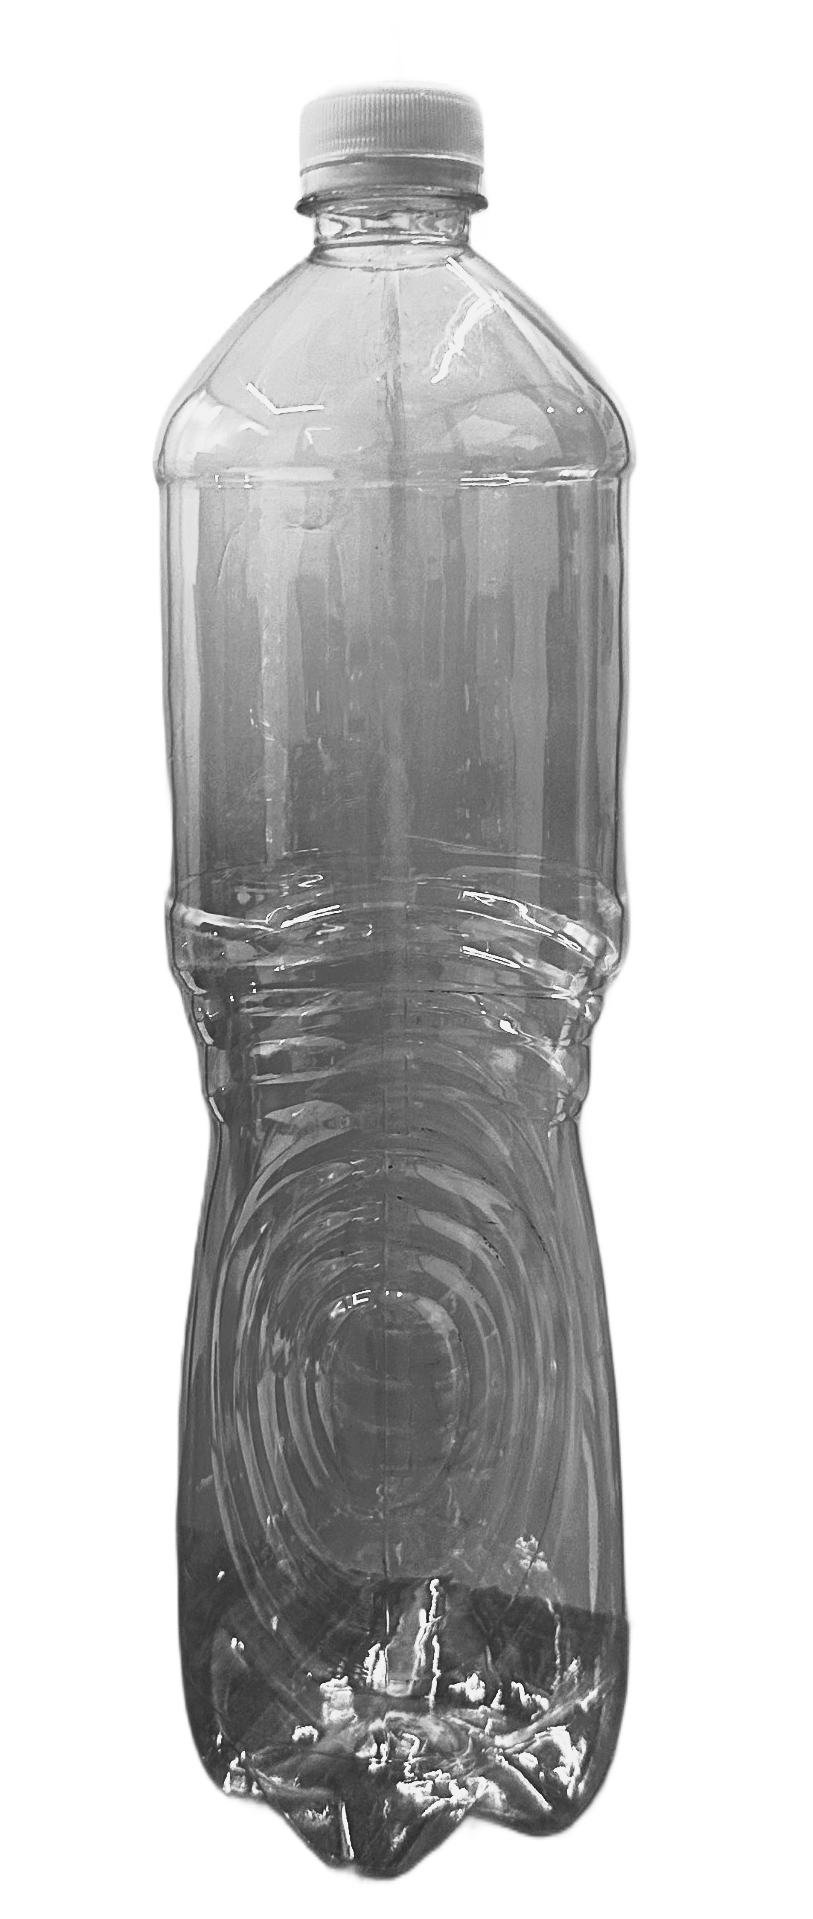
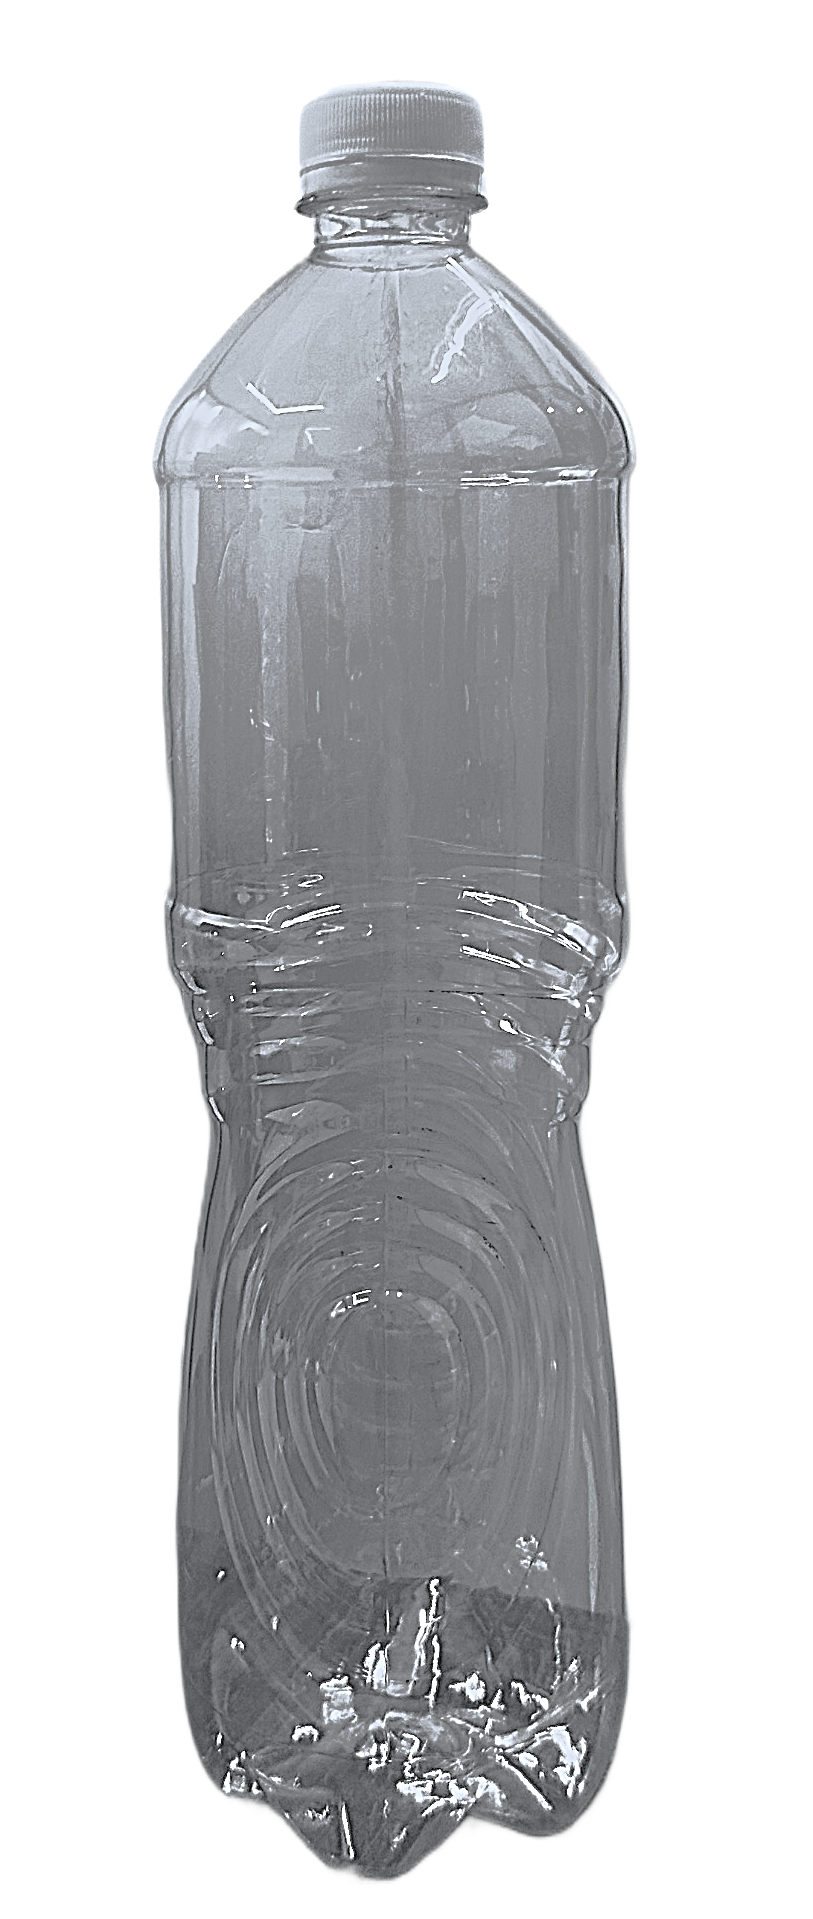
fixing

diff --git a/src/routes/offers.tsx b/src/routes/offers.tsx
@@ -1,10 +1,9 @@
 import { createFileRoute, Link } from "@tanstack/react-router";
-import { useState } from "react";
 import { SiteLayout } from "@/components/SiteLayout";
 import { PageHero } from "@/components/PageHero";
 import { Reveal, Stagger, StaggerItem } from "@/components/Reveal";
 import { Newsletter } from "@/components/sections/Newsletter";
-import { Package, Gift, BadgePercent, Sparkles, Copy, Check } from "lucide-react";
+import { Droplets, Building2, PackageCheck, ArrowUpRight } from "lucide-react";
 
 export const Route = createFileRoute("/offers")({
   head: () => ({
@@ -18,34 +17,59 @@ export const Route = createFileRoute("/offers")({
   component: Offers,
 });
 
+const WHATSAPP_LINK =
+  "https://api.whatsapp.com/send/?phone=[phone redacted]&text&type=phone_number&app_absent=0";
+
+// using a variable-as-component avoids the raw anchor tag getting stripped by some editors/pasters
+const AnchorTag = "a";
+
 const offers = [
   {
-    i: Package,
-    badge: "POPULAR",
-    t: "Family Pack -15%",
-    d: "5× 19L bottles delivered weekly. Perfect for households.",
-    code: "FAMILY15",
+    i: Droplets,
+    img: "/images/offers/offer-1.jpg",
+    label: "Offer 1",
+    t: (
+      <>
+        Buy 4 PET Bottles,
+        <br />
+        Get 1 FREE!
+      </>
+    ),
+    tag: "6-Pack & 12-Pack",
+    d: "Stock up on your favorite Elara Wave water bottles in bulk and get one bottle free. Available on both 6-bottle and 12-bottle packs.",
+    cta: "Order Now",
   },
   {
-    i: Gift,
-    badge: "EXCLUSIVE",
-    t: "Free Dispenser",
-    d: "Sign a 6-month office plan and get a premium dispenser on us.",
-    code: "OFFICE6M",
+    i: Building2,
+    img: "/images/offers/offer-2.jpg",
+    label: "Offer 2",
+    t: (
+      <>
+        Buy 3 (19L) Bottles,
+        <br />
+        Get a Dispenser Free!
+      </>
+    ),
+    tag: "Home & Office",
+    d: "Purchase 3 large 19-liter Elara Wave bottles and receive a premium tabletop dispenser for free. Perfect for your home, office, or workspace.",
+    cta: "Claim Offer",
+    featured: true,
   },
   {
-    i: BadgePercent,
-    badge: "LIMITED OFFER",
-    t: "First-Order 10%",
-    d: "Welcome to ELARAWAVE — 10% off your very first order.",
-    code: "WELCOME10",
-  },
-  {
-    i: Sparkles,
-    badge: "SPECIAL DEAL",
-    t: "Event Bundle",
-    d: "500× custom-labeled bottles for weddings & events. Talk to us.",
-    code: "EVENT500",
+    i: PackageCheck,
+    img: "/images/offers/offer-3.jpg",
+    label: "Offer 3",
+    t: (
+      <>
+        Order 100 Custom Bottles,
+        <br />
+        Get 10 FREE!
+      </>
+    ),
+    tag: "10 Bottles Free",
+    d: "Order 100 personalized Elara Wave bottles with your own branding and get 10 extra bottles free. Ideal for events, weddings, and businesses.",
+    cta: "Customize Now",
+    href: "/custom-branding",
   },
 ];
 
@@ -59,13 +83,12 @@ function Offers() {
       />
 
       <div className="relative">
-        {/* soft light-blue decorative backdrop */}
         <div className="pointer-events-none absolute -top-10 left-1/2 -translate-x-1/2 h-72 w-[42rem] rounded-full bg-gradient-to-br from-blue-100/40 via-emerald-100/30 to-transparent blur-3xl" />
 
-        <Stagger className="relative mx-auto max-w-7xl px-4 sm:px-6 lg:px-8 grid gap-6 sm:gap-7 sm:grid-cols-2 pb-4">
+        <Stagger className="relative mx-auto max-w-7xl px-4 sm:px-6 lg:px-8 grid gap-6 sm:gap-7 grid-cols-1 sm:grid-cols-2 lg:grid-cols-3 pb-4 items-stretch">
           {offers.map((offer) => (
-            <StaggerItem key={offer.code}>
-              <Reveal>
+            <StaggerItem key={offer.label}>
+              <Reveal className="h-full">
                 <OfferCard {...offer} />
               </Reveal>
             </StaggerItem>
@@ -80,91 +103,103 @@ function Offers() {
 
 function OfferCard({
   i: Icon,
-  badge,
+  img,
+  label,
   t,
+  tag,
   d,
-  code,
+  cta,
+  featured,
+  href,
 }: {
-  i: typeof Package;
-  badge: string;
-  t: string;
+  i: typeof Droplets;
+  img: string;
+  label: string;
+  t: React.ReactNode;
+  tag: string;
   d: string;
-  code: string;
+  cta: string;
+  featured?: boolean;
+  href?: string;
 }) {
-  const [copied, setCopied] = useState(false);
-
-  async function handleCopy() {
-    try {
-      await navigator.clipboard.writeText(code);
-      setCopied(true);
-      setTimeout(() => setCopied(false), 1800);
-    } catch {
-      /* clipboard unavailable — ignore */
-    }
-  }
+  const ctaClassName = `mt-7 inline-flex items-center justify-center gap-1.5 rounded-full px-5 py-3 text-sm font-semibold shadow-[0_8px_20px_-8px_rgba(16,163,127,0.5)] transition-all hover:-translate-y-0.5 hover:shadow-[0_12px_24px_-8px_rgba(16,163,127,0.6)] ${
+    featured ? "bg-white text-navy hover:bg-white/90" : "bg-brand text-white"
+  }`;
 
   return (
-    <div className="group relative h-full flex flex-col rounded-3xl border border-black/5 bg-white p-8 sm:p-10 shadow-[0_2px_8px_rgba(16,24,40,0.06)] transition-all duration-300 hover:-translate-y-1 hover:shadow-[0_24px_48px_-16px_rgba(16,24,40,0.14)] hover:border-brand/30">
-      {/* subtle corner glow accent */}
-      <div className="pointer-events-none absolute -top-10 -right-10 h-40 w-40 rounded-full bg-gradient-to-br from-blue-200/25 to-emerald-200/20 blur-2xl opacity-0 group-hover:opacity-100 transition-opacity duration-500" />
+    <div
+      className={`group relative flex h-full flex-col overflow-hidden rounded-3xl transition-all duration-300 hover:-translate-y-1 ${
+        featured
+          ? "border-2 border-brand/40 bg-navy text-white shadow-[0_24px_56px_-16px_rgba(16,163,127,0.35)]"
+          : "border border-black/5 bg-white text-navy shadow-[0_2px_8px_rgba(16,24,40,0.06)] hover:shadow-[0_24px_48px_-16px_rgba(16,24,40,0.14)] hover:border-brand/30"
+      }`}
+    >
+      {featured && (
+        <span className="absolute top-3 left-1/2 z-10 -translate-x-1/2 rounded-full bg-gradient-to-r from-brand to-emerald-400 px-4 py-1 text-[11px] font-bold tracking-widest text-white shadow-[0_8px_20px_-6px_rgba(16,163,127,0.6)]">
+          MOST POPULAR
+        </span>
+      )}
 
-      {/* Icon */}
-      <div className="relative grid place-items-center h-16 w-16 rounded-full bg-gradient-to-br from-blue-500 to-emerald-400 shadow-[0_8px_24px_-8px_rgba(16,163,127,0.5)] transition-transform duration-300 group-hover:scale-105">
-        <div className="absolute inset-0 rounded-full bg-gradient-to-br from-white/25 to-transparent" />
-        <Icon className="relative h-7 w-7 text-white" strokeWidth={1.75} />
+      <div className="relative aspect-[4/3] w-full overflow-hidden bg-bg-light">
+        <img
+          src={img}
+          alt={typeof t === "string" ? t : label}
+          className="h-full w-full object-cover transition-transform duration-500 group-hover:scale-105"
+        />
+        <div className="pointer-events-none absolute inset-0 bg-gradient-to-t from-black/30 via-black/0 to-black/0" />
       </div>
 
-      {/* Badge */}
-      <span className="mt-6 inline-flex w-fit items-center rounded-full border border-brand/20 bg-brand/5 px-3 py-1 text-[11px] font-bold tracking-widest text-brand">
-        {badge}
-      </span>
+      <div className="relative flex flex-1 flex-col p-8 sm:p-9">
+        <div
+          className={`pointer-events-none absolute -top-10 -right-10 h-40 w-40 rounded-full blur-2xl opacity-0 transition-opacity duration-500 group-hover:opacity-100 ${
+            featured ? "bg-emerald-400/20" : "bg-gradient-to-br from-blue-200/25 to-emerald-200/20"
+          }`}
+        />
 
-      {/* Title & description */}
-      <h3 className="mt-3 text-xl sm:text-2xl font-bold text-navy">{t}</h3>
-      <p className="mt-2 text-sm leading-relaxed text-text-muted">{d}</p>
-
-      {/* Promo code */}
-      <div className="mt-6">
-        <div className="text-[11px] font-bold tracking-widest text-text-muted">PROMO CODE</div>
-        <div className="mt-2 flex items-center justify-between gap-3 rounded-xl border border-dashed border-navy/20 bg-bg-light px-4 py-3 transition-colors group-hover:border-brand/40">
-          <span className="font-mono font-bold text-navy tracking-widest text-sm sm:text-base truncate">
-            {code}
-          </span>
-          <button
-            type="button"
-            onClick={handleCopy}
-            className="inline-flex items-center gap-1.5 text-xs font-semibold text-brand hover:text-navy transition-colors shrink-0"
-          >
-            {copied ? (
-              <>
-                <Check className="h-3.5 w-3.5" /> Copied
-              </>
-            ) : (
-              <>
-                <Copy className="h-3.5 w-3.5" /> Copy
-              </>
-            )}
-          </button>
+        <div
+          className={`relative -mt-14 grid h-16 w-16 place-items-center rounded-full shadow-[0_8px_24px_-8px_rgba(16,163,127,0.5)] transition-transform duration-300 group-hover:scale-105 ${
+            featured ? "bg-white/10 border border-white/20 backdrop-blur" : "bg-gradient-to-br from-blue-500 to-emerald-400"
+          }`}
+        >
+          <div className="absolute inset-0 rounded-full bg-gradient-to-br from-white/25 to-transparent" />
+          <Icon className={`relative h-7 w-7 ${featured ? "text-emerald-300" : "text-white"}`} strokeWidth={1.75} />
         </div>
-      </div>
 
-      {/* Spacer pushes CTAs to bottom for equal-height cards */}
-      <div className="flex-1" />
+        <span
+          className={`mt-6 inline-flex w-fit items-center rounded-full px-3 py-1 text-[11px] font-bold tracking-widest ${
+            featured ? "border border-white/20 bg-white/10 text-emerald-300" : "border border-brand/20 bg-brand/5 text-brand"
+          }`}
+        >
+          {label}
+        </span>
 
-      {/* CTAs */}
-      <div className="mt-7 flex flex-wrap items-center gap-3">
-        <Link
-          to="/contact"
-          className="inline-flex items-center justify-center rounded-full bg-brand px-5 py-2.5 text-sm font-semibold text-white shadow-[0_8px_20px_-8px_rgba(16,163,127,0.5)] transition-all hover:-translate-y-0.5 hover:shadow-[0_12px_24px_-8px_rgba(16,163,127,0.6)]"
+        <h3 className={`mt-4 text-xl sm:text-2xl font-bold leading-snug ${featured ? "text-white" : "text-navy"}`}>
+          {t}
+        </h3>
+
+        <span
+          className={`mt-3 inline-flex w-fit items-center gap-1 rounded-full border px-3 py-1 text-xs font-semibold ${
+            featured ? "border-white/15 text-white/80" : "border-navy/15 text-navy/70"
+          }`}
         >
-          Claim Offer
-        </Link>
-        <Link
-          to="/contact"
-          className="inline-flex items-center justify-center rounded-full border border-navy/15 px-5 py-2.5 text-sm font-semibold text-navy transition-colors hover:border-brand/40 hover:text-brand"
-        >
-          Contact Us
-        </Link>
+          {tag}
+        </span>
+
+        <p className={`mt-4 text-sm leading-relaxed ${featured ? "text-white/70" : "text-text-muted"}`}>{d}</p>
+
+        <div className="flex-1" />
+
+        {href ? (
+          <Link to={href} className={ctaClassName}>
+            {cta}
+            <ArrowUpRight className="h-4 w-4" />
+          </Link>
+        ) : (
+          <AnchorTag href={WHATSAPP_LINK} target="_blank" rel="noopener noreferrer" className={ctaClassName}>
+            {cta}
+            <ArrowUpRight className="h-4 w-4" />
+          </AnchorTag>
+        )}
       </div>
     </div>
   );

diff --git a/src/components/VisitorPopup.tsx b/src/components/VisitorPopup.tsx
@@ -13,17 +13,23 @@ export function VisitorPopup() {
   const { user, status } = useAuth();
 
   useEffect(() => {
-    // Wait for auth check to resolve, and skip entirely if logged in
     if (status === "loading") return;
     if (user) return;
 
     const last = Number(localStorage.getItem(KEY) || 0);
     if (Date.now() - last < DAY) return;
-    const t = setTimeout(() => setOpen(true), 1500);
-    return () => clearTimeout(t);
+
+    const timer = setTimeout(() => {
+      setOpen(true);
+    }, 1500);
+
+    return () => clearTimeout(timer);
   }, [user, status]);
 
-  // ...rest same as before
+  function close() {
+    localStorage.setItem(KEY, Date.now().toString());
+    setOpen(false);
+  }
 
   return (
     <AnimatePresence>
@@ -40,23 +46,35 @@ export function VisitorPopup() {
             initial={{ scale: 0.9, opacity: 0, y: 30 }}
             animate={{ scale: 1, opacity: 1, y: 0 }}
             exit={{ scale: 0.95, opacity: 0 }}
-            transition={{ type: "spring", stiffness: 220, damping: 22 }}
+            transition={{
+              type: "spring",
+              stiffness: 220,
+              damping: 22,
+            }}
             className="relative w-full max-w-md glass rounded-3xl p-8 overflow-hidden"
           >
             <button
+              type="button"
               onClick={close}
               aria-label="Close"
-              className="absolute top-4 right-4 h-9 w-9 grid place-items-center rounded-full bg-white/70 text-navy hover:bg-white"
+              className="absolute top-4 right-4 h-9 w-9 grid place-items-center rounded-full bg-white/70 text-navy hover:bg-white transition"
             >
               <X className="h-4 w-4" />
             </button>
+
             <div className="mx-auto grid place-items-center h-20 w-20 rounded-2xl bg-white/80 shadow-[0_10px_30px_rgba(18,58,94,0.15)] mb-4 p-2">
               <Logo className="h-full w-full object-contain" />
             </div>
-            <h3 className="text-2xl font-extrabold text-navy text-center">Join the ELARAWAVE family</h3>
-            <p className="text-sm text-text-muted text-center mt-2">
-              Create your account for exclusive prices, faster reorders, and premium member offers.
+
+            <h3 className="text-2xl font-extrabold text-navy text-center">
+              Join the ELARAWAVE family
+            </h3>
+
+            <p className="mt-2 text-sm text-text-muted text-center">
+              Create your account for exclusive prices, faster reorders, and
+              premium member offers.
             </p>
+
             <div className="mt-6 space-y-3">
               <Link
                 to="/register"
@@ -65,10 +83,11 @@ export function VisitorPopup() {
               >
                 Create free account
               </Link>
+
               <button
                 type="button"
                 onClick={close}
-                className="w-full text-sm text-text-muted hover:text-navy"
+                className="w-full h-11 rounded-xl text-sm text-text-muted hover:text-navy transition"
               >
                 Maybe later
               </button>

diff --git a/src/routes/products.tsx b/src/routes/products.tsx
@@ -171,7 +171,7 @@ function ProductsPage() {
                 </div>
               </div>
             </Reveal>
-            <Stagger className="grid gap-6 grid-cols-2 sm:grid-cols-2 lg:grid-cols-4">
+            <Stagger className="grid gap-6 sm:gap-7 grid-cols-1 sm:grid-cols-2 lg:grid-cols-3">
               {cat.sizes.map((s) => (
                 <StaggerItem key={s.label}>
                   <SizeCard category={cat} size={s} />